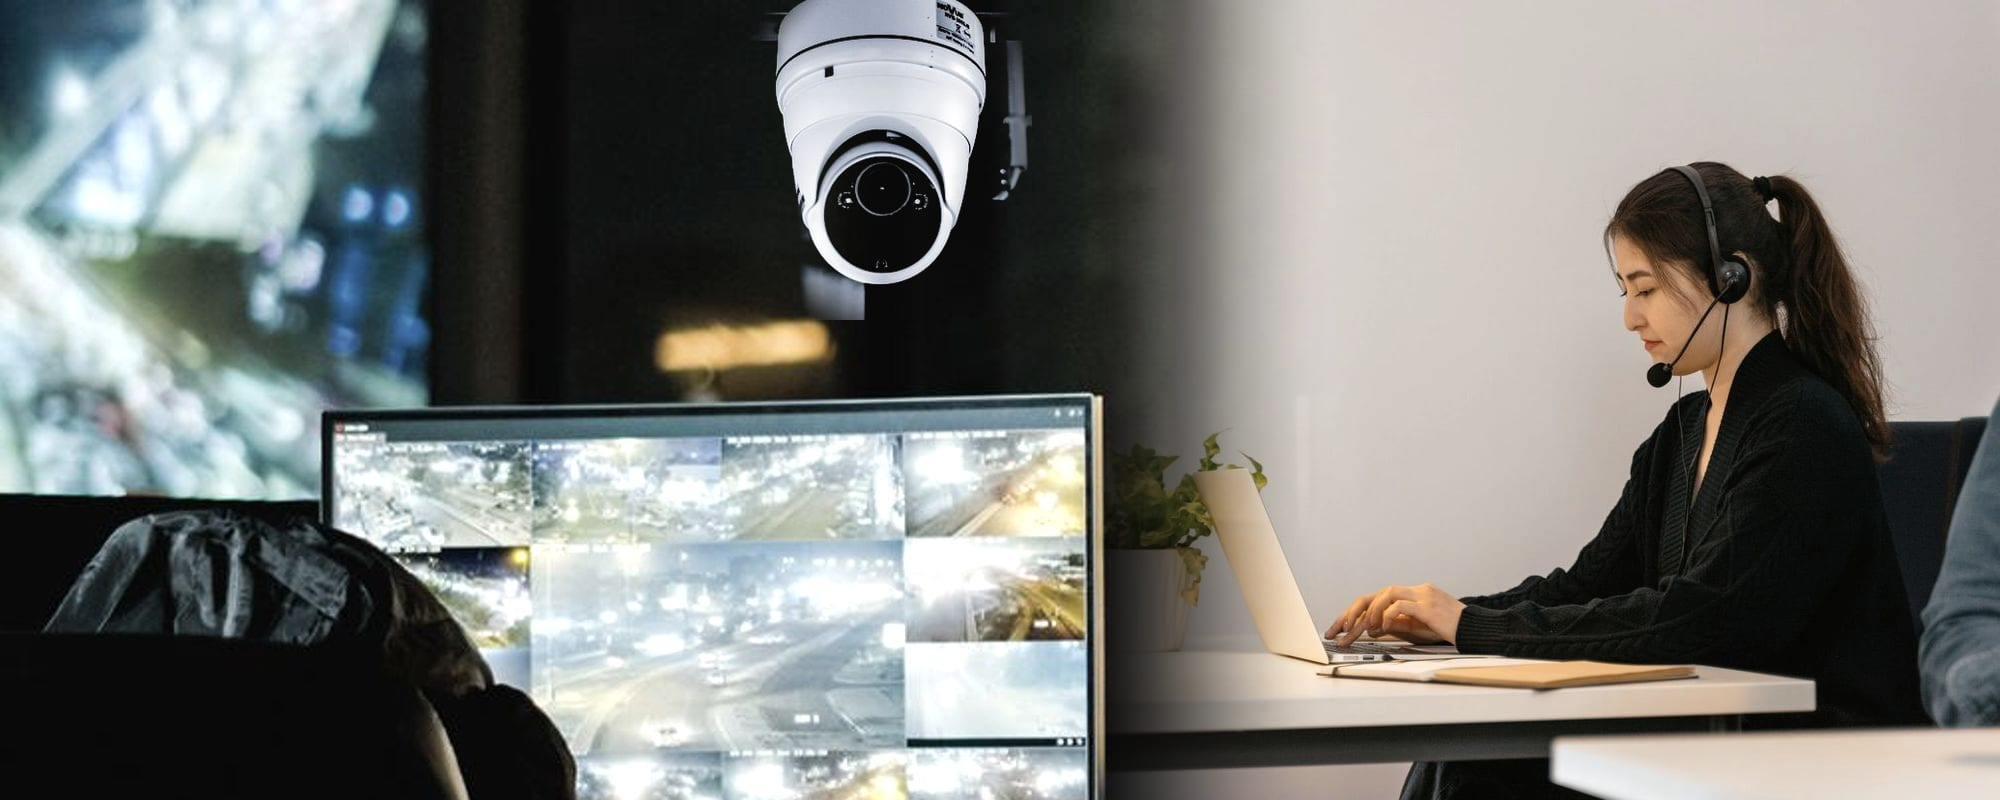
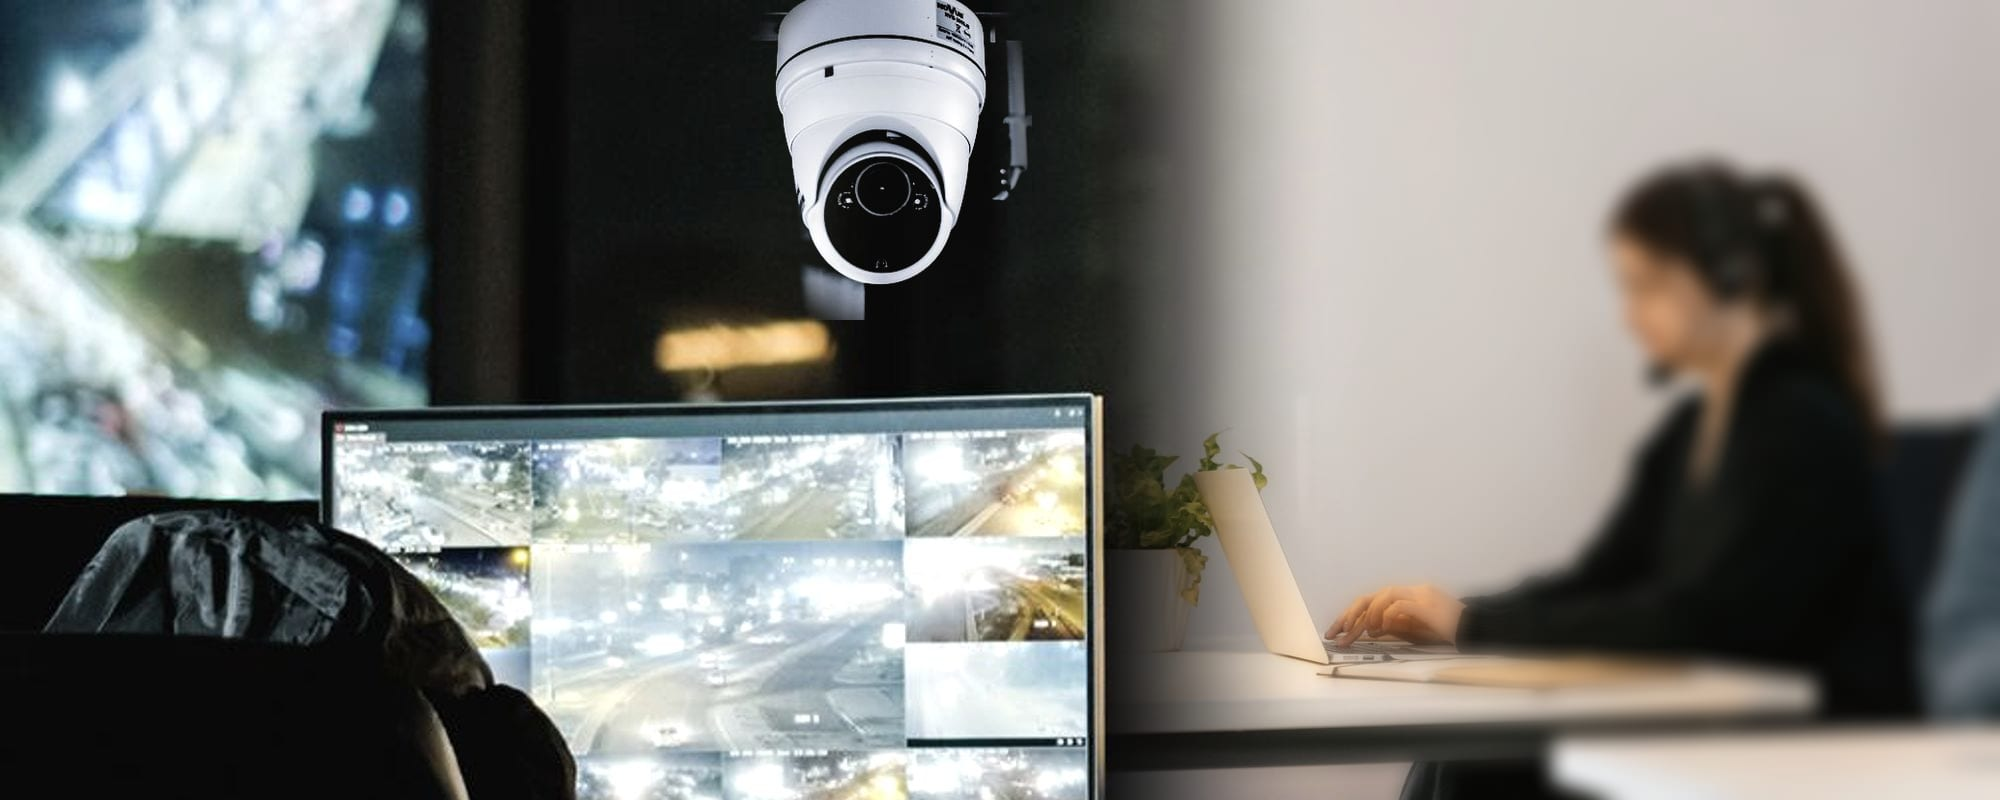
Bake depth of field into the hero so nothing sharpens on load
On every reload the operator's face appeared sharp for a moment and then
blurred. Two causes: the panel's `backdrop-blur` paints a frame late, and the
panel fades in via Reveal, so its dark tint was transparent at first paint.

The blur now lives in the image. A depth-of-field ramp keeps the dome camera
and the camera feeds sharp and falls progressively out of focus from ~55%
across, so the face is soft from the very first frame. The panel drops
`backdrop-blur` for a slightly more opaque solid tint — with a soft backdrop
it looked identical, and no filter can paint late.

Building the mask also exposed a bug in the compositing script: the flattened
frame already carries alpha from the dome cutout, so ensureAlpha() was a no-op
and joinChannel() appended a fifth channel that vips ignored. The blur layer
came out fully opaque and softened the whole frame, monitors included. The
overlay is now assembled from raw RGBA.

Claude-Session: https://claude.ai/code/session_015BCT4kLyrYeVZQyCkYf7oc

Changed region(s): [[0.651, 0.1875, 1.0, 1.0], [0.93, 0.4062, 1.0, 0.7812], [0.961, 0.8125, 0.992, 0.8438]]

diff --git a/src/components/sections/hero.tsx b/src/components/sections/hero.tsx
@@ -65,7 +65,10 @@ export function Hero() {
 
         {/* Glass panel listing the four service pillars */}
         <Reveal delay={140}>
-          <ul className="flex flex-col gap-1.5 rounded-2xl border border-white/12 bg-navy-950/72 p-3 shadow-[0_24px_60px_-20px_rgba(0,0,0,0.7)] backdrop-blur-md sm:p-4">
+          {/* No backdrop-filter here: it paints a frame late, which flashed the
+              sharp photo through the panel on load. The photo behind it is
+              already soft, so a solid tint does the same job. */}
+          <ul className="flex flex-col gap-1.5 rounded-2xl border border-white/12 bg-navy-950/82 p-3 shadow-[0_24px_60px_-20px_rgba(0,0,0,0.7)] sm:p-4">
             {hero.highlights.map((item) => (
               <li key={item.title}>
                 <div className="group flex items-center gap-3.5 rounded-xl px-3 py-3 transition-colors duration-200 hover:bg-white/[0.06]">

diff --git a/README.md b/README.md
@@ -78,6 +78,13 @@ so `hero-surveillance.jpg` reproduces the arrangement from three photographs:
 | Office and headset operator | Pexels 7709302 | blended in from the right behind a 260px alpha ramp |
 | Dome camera | Pexels 7364948 | cut out with a luminance mask, hung from the top edge |
 
+A depth-of-field falloff is baked into the JPEG: the dome camera and the
+camera feeds stay sharp, and everything from roughly 55% across is
+progressively blurred. That is deliberate — leaving it to a `backdrop-filter`
+on the panel meant the sharp face flashed through for a frame on every load.
+For the same reason the hero panel uses a solid tint rather than
+`backdrop-blur`.
+
 All three are **Pexels licence** — free for commercial use, no attribution
 required. The build script lives outside the repo; the finished JPEG is what
 ships.
